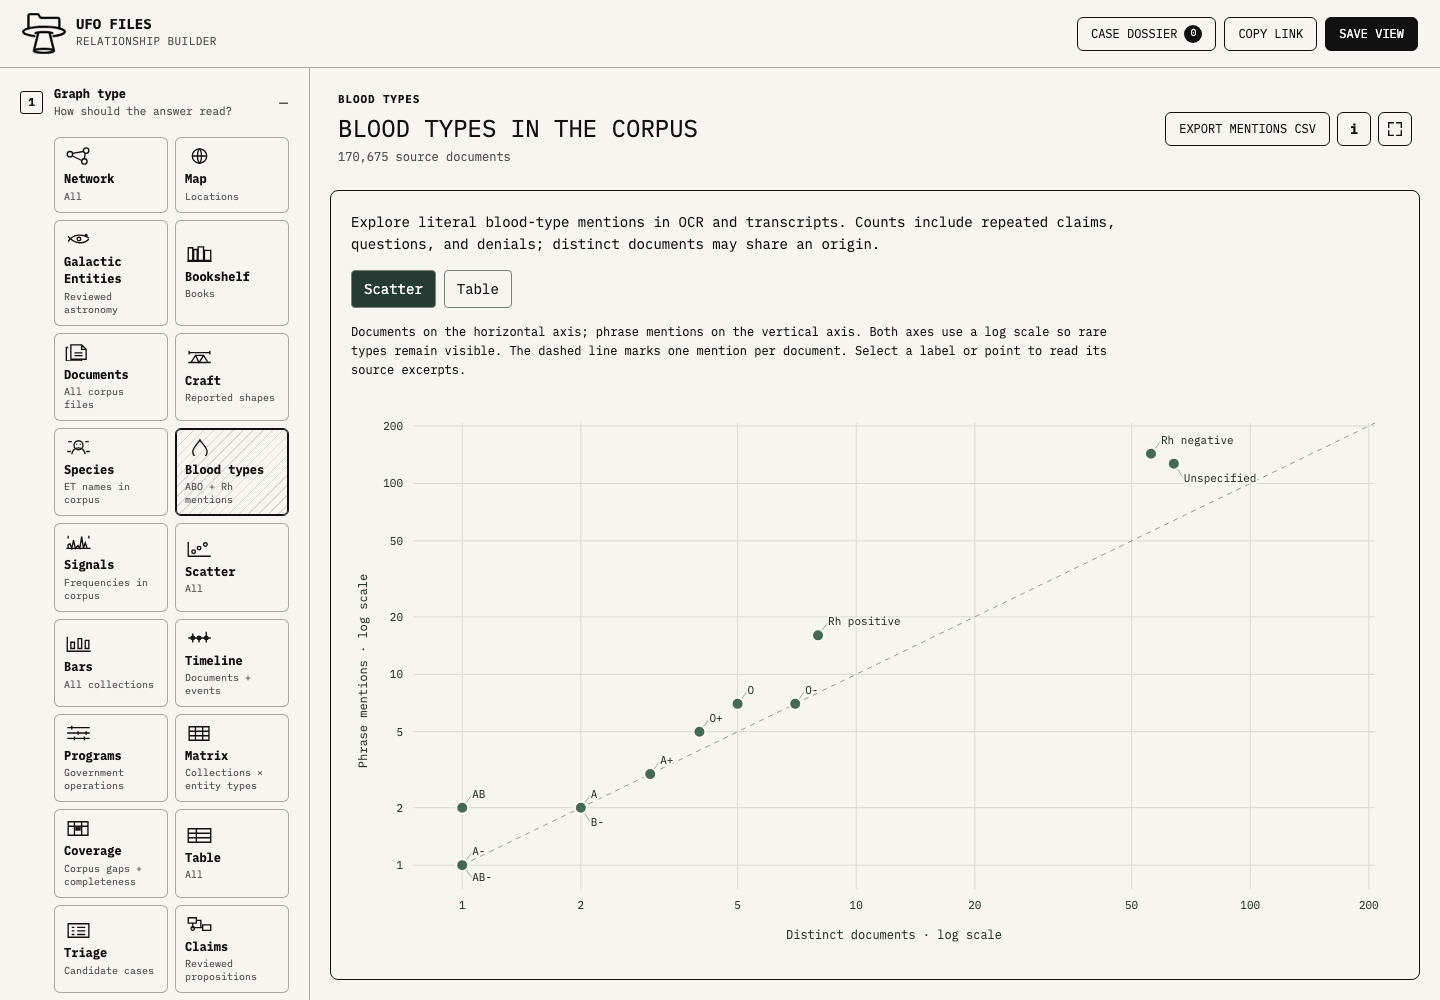
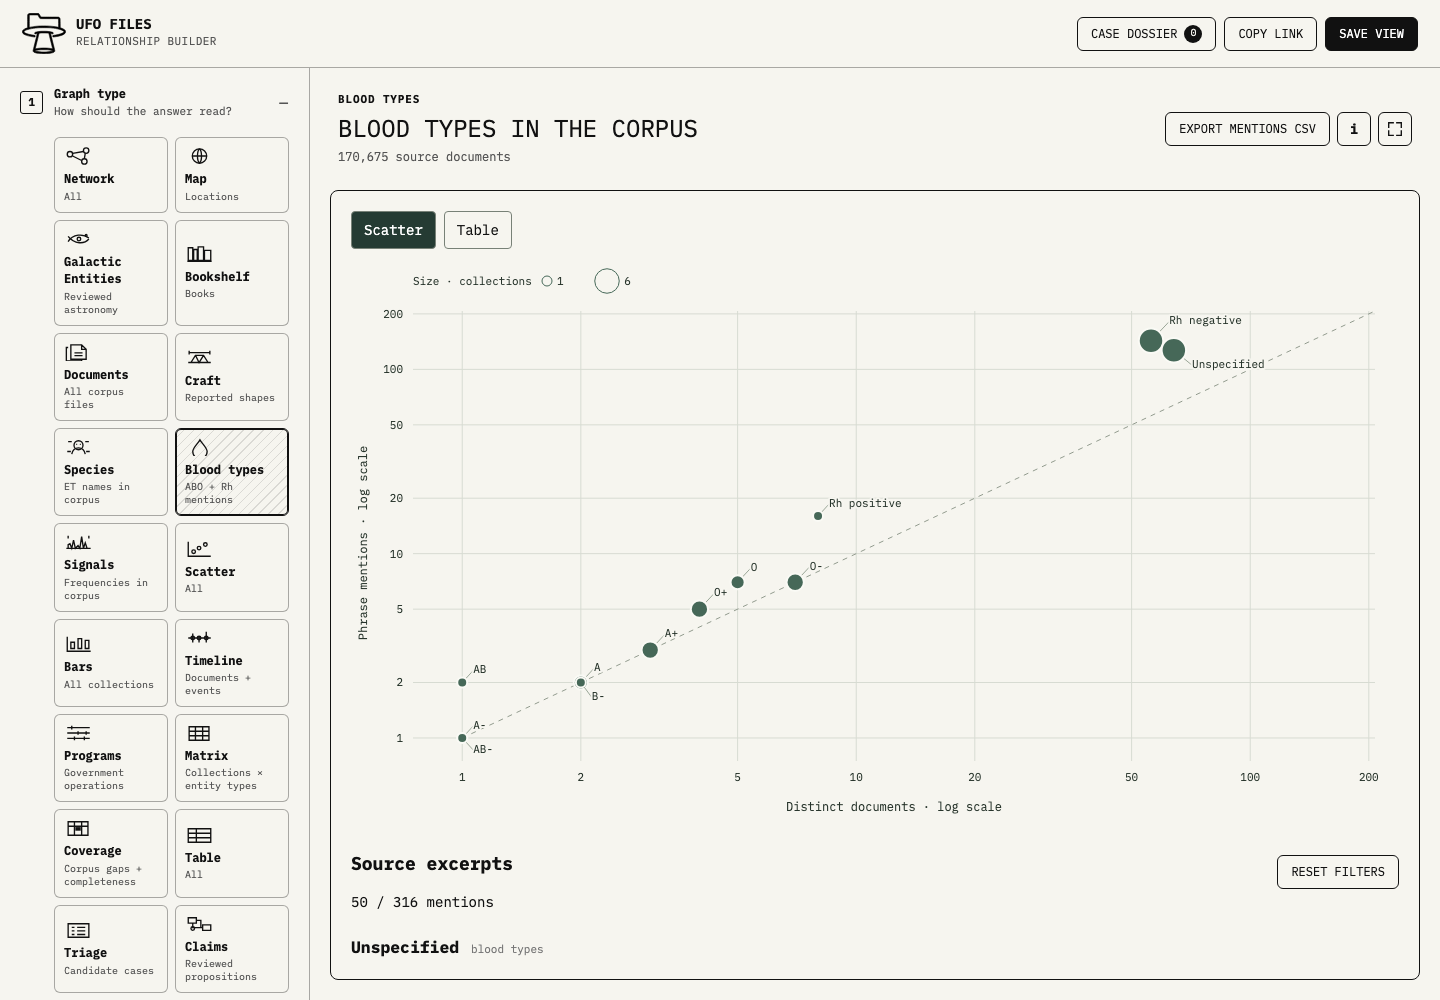
Remove view prose and scale blood type nodes by collection count

diff --git a/app.js b/app.js
@@ -1131,8 +1131,10 @@ function triageSubtitle(config = state.config) {
 }
 
 function renderPresetControl() {
+  const presetStep = $('[data-step="2"]');
+  if (presetStep) presetStep.hidden = state.config.type === "blood";
   if (state.config.type === "blood") {
-    $("#presetControls").innerHTML = `<div class="control method-note"><div class="control-title">Literal text mentions</div><p>Explore ABO and Rh references, including unspecified blood types. Counts describe the corpus, not population prevalence.</p></div>`;
+    $("#presetControls").innerHTML = "";
     return;
   }
   if (state.config.type === "programs") {
@@ -1241,7 +1243,7 @@ function renderControls() {
   } else if (state.config.type === "signals") {
     roles = `<div class="control"><div class="control-title">Marks</div><select disabled><option>Explicit numeric frequency mentions</option></select></div><div class="control"><div class="control-title">X axis</div><select disabled><option>Logarithmic radio frequency</option></select></div>`;
   } else if (state.config.type === "blood") {
-    roles = `<div class="control method-note"><div class="control-title">Evidence rows</div><p>Each row preserves one matched phrase, its source segment, and surrounding text.</p></div>`;
+    roles = `<div class="control"><div class="control-title">X · Documents</div><div class="control-title">Y · Mentions</div></div>`;
   } else if (state.config.type === "programs") {
     roles = `<div class="control"><div class="control-title">Rows</div><select disabled><option>Reviewed projects, operations, and offices</option></select></div><div class="control"><div class="control-title">Layout</div><select disabled><option>Active intervals + relationship bridges</option></select></div>`;
   } else if (state.config.type === "scatter") {
@@ -1355,7 +1357,7 @@ function renderControls() {
   } else if (state.config.type === "signals") {
     $("#encodeControls").innerHTML = `<div class="control"><div class="control-title">Peak height</div><select disabled><option>Corpus frequency mentions</option></select></div><div class="control method-note"><div class="control-title">Spectrum semantics</div><p>Peaks are normalized numeric frequency references in corpus text. Unit-elided values require explicit microwave-band context. They are not RF logger measurements and do not establish that a transmission occurred.</p></div>` + labelSizeControl;
   } else if (state.config.type === "blood") {
-    $("#encodeControls").innerHTML = `<div class="control method-note"><div class="control-title">Counting method</div><p>Raw phrase occurrences include repeats. Document and collection counts are distinct counts, not independent corroboration. Rh-only references do not imply an ABO type.</p></div>`;
+    $("#encodeControls").innerHTML = `<div class="control"><div class="control-title">Logarithmic axes</div></div>`;
   } else if (state.config.type === "programs") {
     $("#encodeControls").innerHTML = `<div class="control method-note"><div class="control-title">Interval semantics</div><p>Solid bars are officially documented. Dashed bars are claims entered into the congressional record but not officially confirmed. Curved bridges connect reviewed succession or transfer nodes on the relevant lanes. An arrow means active at the review date, not indefinitely active.</p></div>` + labelSizeControl;
   } else if (state.config.type === "document") {
@@ -4346,20 +4348,27 @@ function bloodOverviewHTML(observations, config) {
   const groups = bloodMentionGroups(observations);
   const table = config.bloodView === "table";
   return `<section aria-label="Blood type overview"><div class="blood-view-switch" role="group" aria-label="Blood type view">${["scatter", "table"].map(view => `<button type="button" data-blood-view="${view}" aria-pressed="${(table ? "table" : "scatter") === view}">${view === "scatter" ? "Scatter" : "Table"}</button>`).join("")}</div>
-    ${table ? `<div class="blood-overview"><table><thead><tr><th scope="col">Type / Rh</th><th scope="col">Mentions</th><th scope="col">Documents</th><th scope="col">Collections</th></tr></thead><tbody>${groups.map(group => `<tr><th scope="row"><button type="button" data-blood-pick="${escapeHTML(group.type)}">${escapeHTML(group.type)}</button></th><td>${formatNumber(group.mentions)}</td><td>${formatNumber(group.documents.size)}</td><td>${formatNumber(group.sources.size)}</td></tr>`).join("")}</tbody></table></div>` : `<p class="blood-chart-help">Documents on the horizontal axis; phrase mentions on the vertical axis. Both axes use a log scale so rare types remain visible. The dashed line marks one mention per document. Select a label or point to read its source excerpts.</p><svg class="blood-scatter" role="group" aria-label="Blood type mentions versus distinct documents"></svg>`}
+    ${table ? `<div class="blood-overview"><table><thead><tr><th scope="col">Type / Rh</th><th scope="col">Mentions</th><th scope="col">Documents</th><th scope="col">Collections</th></tr></thead><tbody>${groups.map(group => `<tr><th scope="row"><button type="button" data-blood-pick="${escapeHTML(group.type)}">${escapeHTML(group.type)}</button></th><td>${formatNumber(group.mentions)}</td><td>${formatNumber(group.documents.size)}</td><td>${formatNumber(group.sources.size)}</td></tr>`).join("")}</tbody></table></div>` : `<svg class="blood-scatter" role="group" aria-label="Blood type mentions versus distinct documents"></svg>`}
   </section>`;
 }
 
 function drawBloodScatter(svg, observations, config) {
   const groups = bloodMentionGroups(observations);
   const width = Math.max(280, svg.parentElement.clientWidth), height = Math.min(560, Math.max(400, width * .55));
-  const margin = { left: 62, right: 24, top: 32, bottom: 62 };
+  const margin = { left: 62, right: 24, top: 48, bottom: 62 };
   const maximum = Math.max(2, ...groups.map(group => group.mentions)) * 1.45;
   const logMin = Math.log10(.75), logMax = Math.log10(maximum);
   const x = value => margin.left + (Math.log10(value) - logMin) / (logMax - logMin) * (width - margin.left - margin.right);
   const y = value => height - margin.bottom - (Math.log10(value) - logMin) / (logMax - logMin) * (height - margin.top - margin.bottom);
   svg.setAttribute("viewBox", `0 0 ${width} ${height}`);
   svg.style.height = `${height}px`;
+  const largestCollectionCount = Math.max(1, ...groups.map(group => group.sources.size));
+  svg.append(el("text", { x: margin.left, y: 22, class: "blood-axis" }, "Size · collections"));
+  [...new Set([1, largestCollectionCount])].forEach((count, index) => {
+    const radius = 5 * Math.sqrt(count), cx = margin.left + 134 + index * 60;
+    svg.append(el("circle", { cx, cy: 18, r: radius, class: "blood-size-sample" }));
+    svg.append(el("text", { x: cx + radius + 5, y: 22, class: "blood-axis" }, String(count)));
+  });
   const ticks = [];
   for (let power = 0; 10 ** power <= maximum; power++) for (const multiplier of [1, 2, 5]) if (multiplier * 10 ** power <= maximum) ticks.push(multiplier * 10 ** power);
   ticks.forEach(value => {
@@ -4373,8 +4382,8 @@ function drawBloodScatter(svg, observations, config) {
   svg.append(el("text", { x: 16, y: height / 2, transform: `rotate(-90 16 ${height / 2})`, "text-anchor": "middle", class: "blood-axis-title" }, "Phrase mentions · log scale"));
   const labels = [];
   groups.slice().sort((a, b) => a.documents.size - b.documents.size || a.mentions - b.mentions).forEach(group => {
-    const px = x(group.documents.size), py = y(group.mentions), textWidth = group.type.length * 7 + 10;
-    let lx = Math.min(width - margin.right - textWidth, px + 10), ly = py - 10;
+    const px = x(group.documents.size), py = y(group.mentions), radius = 5 * Math.sqrt(group.sources.size), textWidth = group.type.length * 7 + 10;
+    let lx = Math.min(width - margin.right - textWidth, px + radius + 6), ly = py - radius - 4;
     for (let attempt = 0; attempt < 30; attempt++) {
       if (!labels.some(box => lx < box.x + box.width && lx + textWidth > box.x && ly - 12 < box.y + 5 && ly + 5 > box.y - 12)) break;
       ly = py + (attempt % 2 ? -1 : 1) * (18 + Math.floor(attempt / 2) * 18);
@@ -4384,7 +4393,7 @@ function drawBloodScatter(svg, observations, config) {
     const mark = el("g", { class: "blood-scatter-point", role: "button", tabindex: "0", "data-blood-pick": group.type, "aria-pressed": String(config.bloodType === group.type), "aria-label": `${group.type}: ${group.documents.size} documents, ${group.mentions} mentions, ${group.sources.size} collections. Show source excerpts.` });
     mark.append(el("title", {}, `${group.type} · ${group.documents.size} documents · ${group.mentions} mentions · ${group.sources.size} collections`));
     mark.append(el("line", { x1: px, y1: py, x2: lx, y2: ly - 3, class: "blood-leader" }));
-    mark.append(el("circle", { cx: px, cy: py, r: 6 }));
+    mark.append(el("circle", { cx: px, cy: py, r: radius }));
     mark.append(el("text", { x: lx, y: ly }, group.type));
     svg.append(mark);
   });
@@ -4405,11 +4414,11 @@ function renderBloodTypes() {
   const cards = rows => rows.map(item => {
     const doc = state.documentById.get(item.documentId);
     const url = doc ? machineDataDocumentURL(doc) : "";
-    return `<article class="evidence-card blood-evidence"><h3>${escapeHTML(item.bloodType)} <small>${escapeHTML(item.matchedText)}</small></h3><p>${escapeHTML(item.excerpt)}</p><small>${escapeHTML(doc?.title || item.documentId)} · ${escapeHTML(item.source)} · segment ${escapeHTML(String(item.segment))}</small>${url ? `<a href="${escapeHTML(url)}" target="_blank" rel="noopener noreferrer">Inspect source evidence ↗</a>` : ""}</article>`;
+    return `<article class="evidence-card blood-evidence"><h3>${escapeHTML(item.bloodType)} <small>${escapeHTML(item.matchedText)}</small></h3><p>${escapeHTML(item.excerpt)}</p><small>${escapeHTML(doc?.title || item.documentId)} · ${escapeHTML(item.source)} · segment ${escapeHTML(String(item.segment))}</small>${url ? `<a href="${escapeHTML(url)}" target="_blank" rel="noopener noreferrer">Source ↗</a>` : ""}</article>`;
   }).join("");
-  queue.innerHTML = `<div class="blood-view"><p class="blood-method">Explore literal blood-type mentions in OCR and transcripts. Counts include repeated claims, questions, and denials; distinct documents may share an origin.</p>
+  queue.innerHTML = `<div class="blood-view">
     ${overviewItems.length ? bloodOverviewHTML(overviewItems, state.config) : ""}
-    ${items.length ? "" : `<p role="status">${available ? "No blood type mentions match these filters." : "Blood type extraction is unavailable in this catalog. Rebuild the catalog to populate this view."}</p>`}
+    ${items.length ? "" : `<p role="status">${available ? "No matches." : "Blood type data unavailable."}</p>`}
     <div class="blood-evidence-heading" role="region" aria-label="Selected source excerpts" tabindex="-1"><h2>Source excerpts${state.config.bloodType === "all" ? "" : ` · ${escapeHTML(state.config.bloodType)}`}</h2><button class="button" data-blood-reset type="button">Reset filters</button></div><p data-blood-page-count></p><div data-blood-evidence>${cards(items.slice(0, shown))}</div><button class="button" type="button" data-blood-more ${items.length <= shown ? "hidden" : ""}>Show more excerpts</button></div>`;
   const selectEvidence = type => {
     state.config.bloodType = state.config.bloodType === type ? "all" : type;
@@ -4435,7 +4444,7 @@ function renderBloodTypes() {
     Object.assign(state.config, { bloodType: "all", bloodSearch: "", sources: [], allSources: true });
     renderControls(); commitConfig(false);
   });
-  const updateCount = () => { queue.querySelector("[data-blood-page-count]").textContent = `Showing ${Math.min(shown, items.length)} of ${formatNumber(items.length)} matching mentions. CSV export includes every matching mention.`; };
+  const updateCount = () => { queue.querySelector("[data-blood-page-count]").textContent = `${Math.min(shown, items.length)} / ${formatNumber(items.length)} mentions`; };
   updateCount();
   queue.querySelector("[data-blood-more]").addEventListener("click", event => {
     queue.querySelector("[data-blood-evidence]").insertAdjacentHTML("beforeend", cards(items.slice(shown, shown + pageSize)));
@@ -5405,7 +5414,7 @@ function setSummary(text, type) {
           ? "Fish identifications and Hill-reported routes are a disputed claim layer · star positions use current measured astrometry · default camera follows Fish's published Zeta Tucanae occultation constraint and comparison-diagram roll · lines are not verified travel routes · background Gaia sample is not complete or volume-corrected"
           : "Background points are high-confidence Gaia DR3 sources · enlarged corpus and Solar System markers are identified separately · inverse parallax · local sample is not complete or volume-corrected"
         : "Hou & Han: 1,853 H II regions · 1,343 molecular clouds · 735 methanol masers · Reid et al.: 199 VLBI trigonometric-parallax anchors · published fits: Norma, Scutum–Centaurus, Sagittarius–Carina, Perseus, and Local · face-on Galactocentric coordinates · 18 kpc display radius · filled points are the 2014 compilation · open circles are the separate 2019 catalog and may overlap · thin curves are the paper's H II statistical fit, not an illustration · drag to orbit · scroll to zoom · no synthetic stars, invented target coordinates, or hand-drawn morphology"
-    : type === "blood" ? "Literal English ABO/Rh text matches · repeats included · source claims are not verified biology · OCR and untranslated text may be missed"
+    : type === "blood" ? ""
     : type === "signals" ? "Explicit numeric frequency mentions in corpus text · not live RF measurements · mention does not establish a transmission or cause"
     : type === "coverage" ? "Corpus gaps are not evidence that real-world events did not occur · unknown metadata remains explicit"
     : type === "timeline" ? "Correlative dates are human-curated context · Codex suggested The X-Files premiere"

diff --git a/styles.css b/styles.css
@@ -714,11 +714,9 @@ body.graph-fullscreen #chart { min-height: 0; }
   .stage-tools { width: 100%; justify-content: flex-end; }
 }
 .blood-view { padding: 20px; max-width: 1100px; margin: auto; }
-.blood-method { line-height: 1.6; }
 .blood-view-switch { display: flex; gap: 8px; margin-bottom: 14px; }
 .blood-view-switch button, .blood-overview button { font: inherit; padding: 8px 12px; border: 1px solid #788177; border-radius: 4px; background: transparent; cursor: pointer; }
 .blood-view-switch button[aria-pressed="true"] { background: #253b33; color: white; }
-.blood-chart-help { font-size: 12px; line-height: 1.6; }
 .blood-scatter { display: block; width: 100%; overflow: visible; }
 .blood-grid { stroke: #d7dbd2; stroke-width: 1; }
 .blood-diagonal { stroke: #929b8e; stroke-dasharray: 5 5; }
@@ -726,6 +724,7 @@ body.graph-fullscreen #chart { min-height: 0; }
 .blood-axis-title { font-size: 12px; fill: #28352c; }
 .blood-scatter-point { cursor: pointer; }
 .blood-scatter-point circle { fill: #466858; stroke: #fafaf5; stroke-width: 2; }
+.blood-size-sample { fill: none; stroke: #466858; stroke-width: 1; }
 .blood-scatter-point text { paint-order: stroke; stroke: #f7f6f0; stroke-width: 4px; stroke-linejoin: round; }
 .blood-leader { stroke: #9aa697; stroke-width: 1; }
 .blood-scatter-point:hover circle, .blood-scatter-point:focus circle, .blood-scatter-point[aria-pressed="true"] circle { fill: #111; stroke: #111; }

diff --git a/README.md b/README.md
@@ -202,7 +202,7 @@ This view summarizes how corpus sources and the externally documented baseline d
 
 ## Blood types in the corpus
 
-Choose **Blood types** to explore ABO and Rh references in a scatter chart or table. The scatter plots distinct documents against phrase mentions, with logarithmic axes to keep rare types visible. Labels preserve exact coordinates even when several types share a point. Select a point or table row to inspect the source excerpts. Collection, type, and text filters persist in shared links; CSV export includes all matching mentions. Counts describe corpus text, not population prevalence or independent corroboration.
+Choose **Blood types** to explore ABO and Rh references in a scatter chart or table. The scatter plots distinct documents against phrase mentions, with logarithmic axes to keep rare types visible. Node area represents the number of collections. Labels preserve exact coordinates even when several types share a point. Select a point or table row to inspect the source excerpts. Collection, type, and text filters persist in shared links; CSV export includes all matching mentions. Counts describe corpus text, not population prevalence or independent corroboration.
 
 The catalog builder extracts explicit English blood type/group phrases and Rh-positive/negative references. ABO letters require a blood cue, and polarity-only references require nearby blood/Rh context. Generic blood-type references stay unspecified, and Rh-only references never acquire an inferred ABO type. Questions, denials, repeated statements, and speculative claims remain visible in their source context. English derivatives are included through the existing language policy; untranslated text, OCR corruption, and references split across segments can be missed. Extraction does not establish anyone's blood type or verify biological claims.
 
